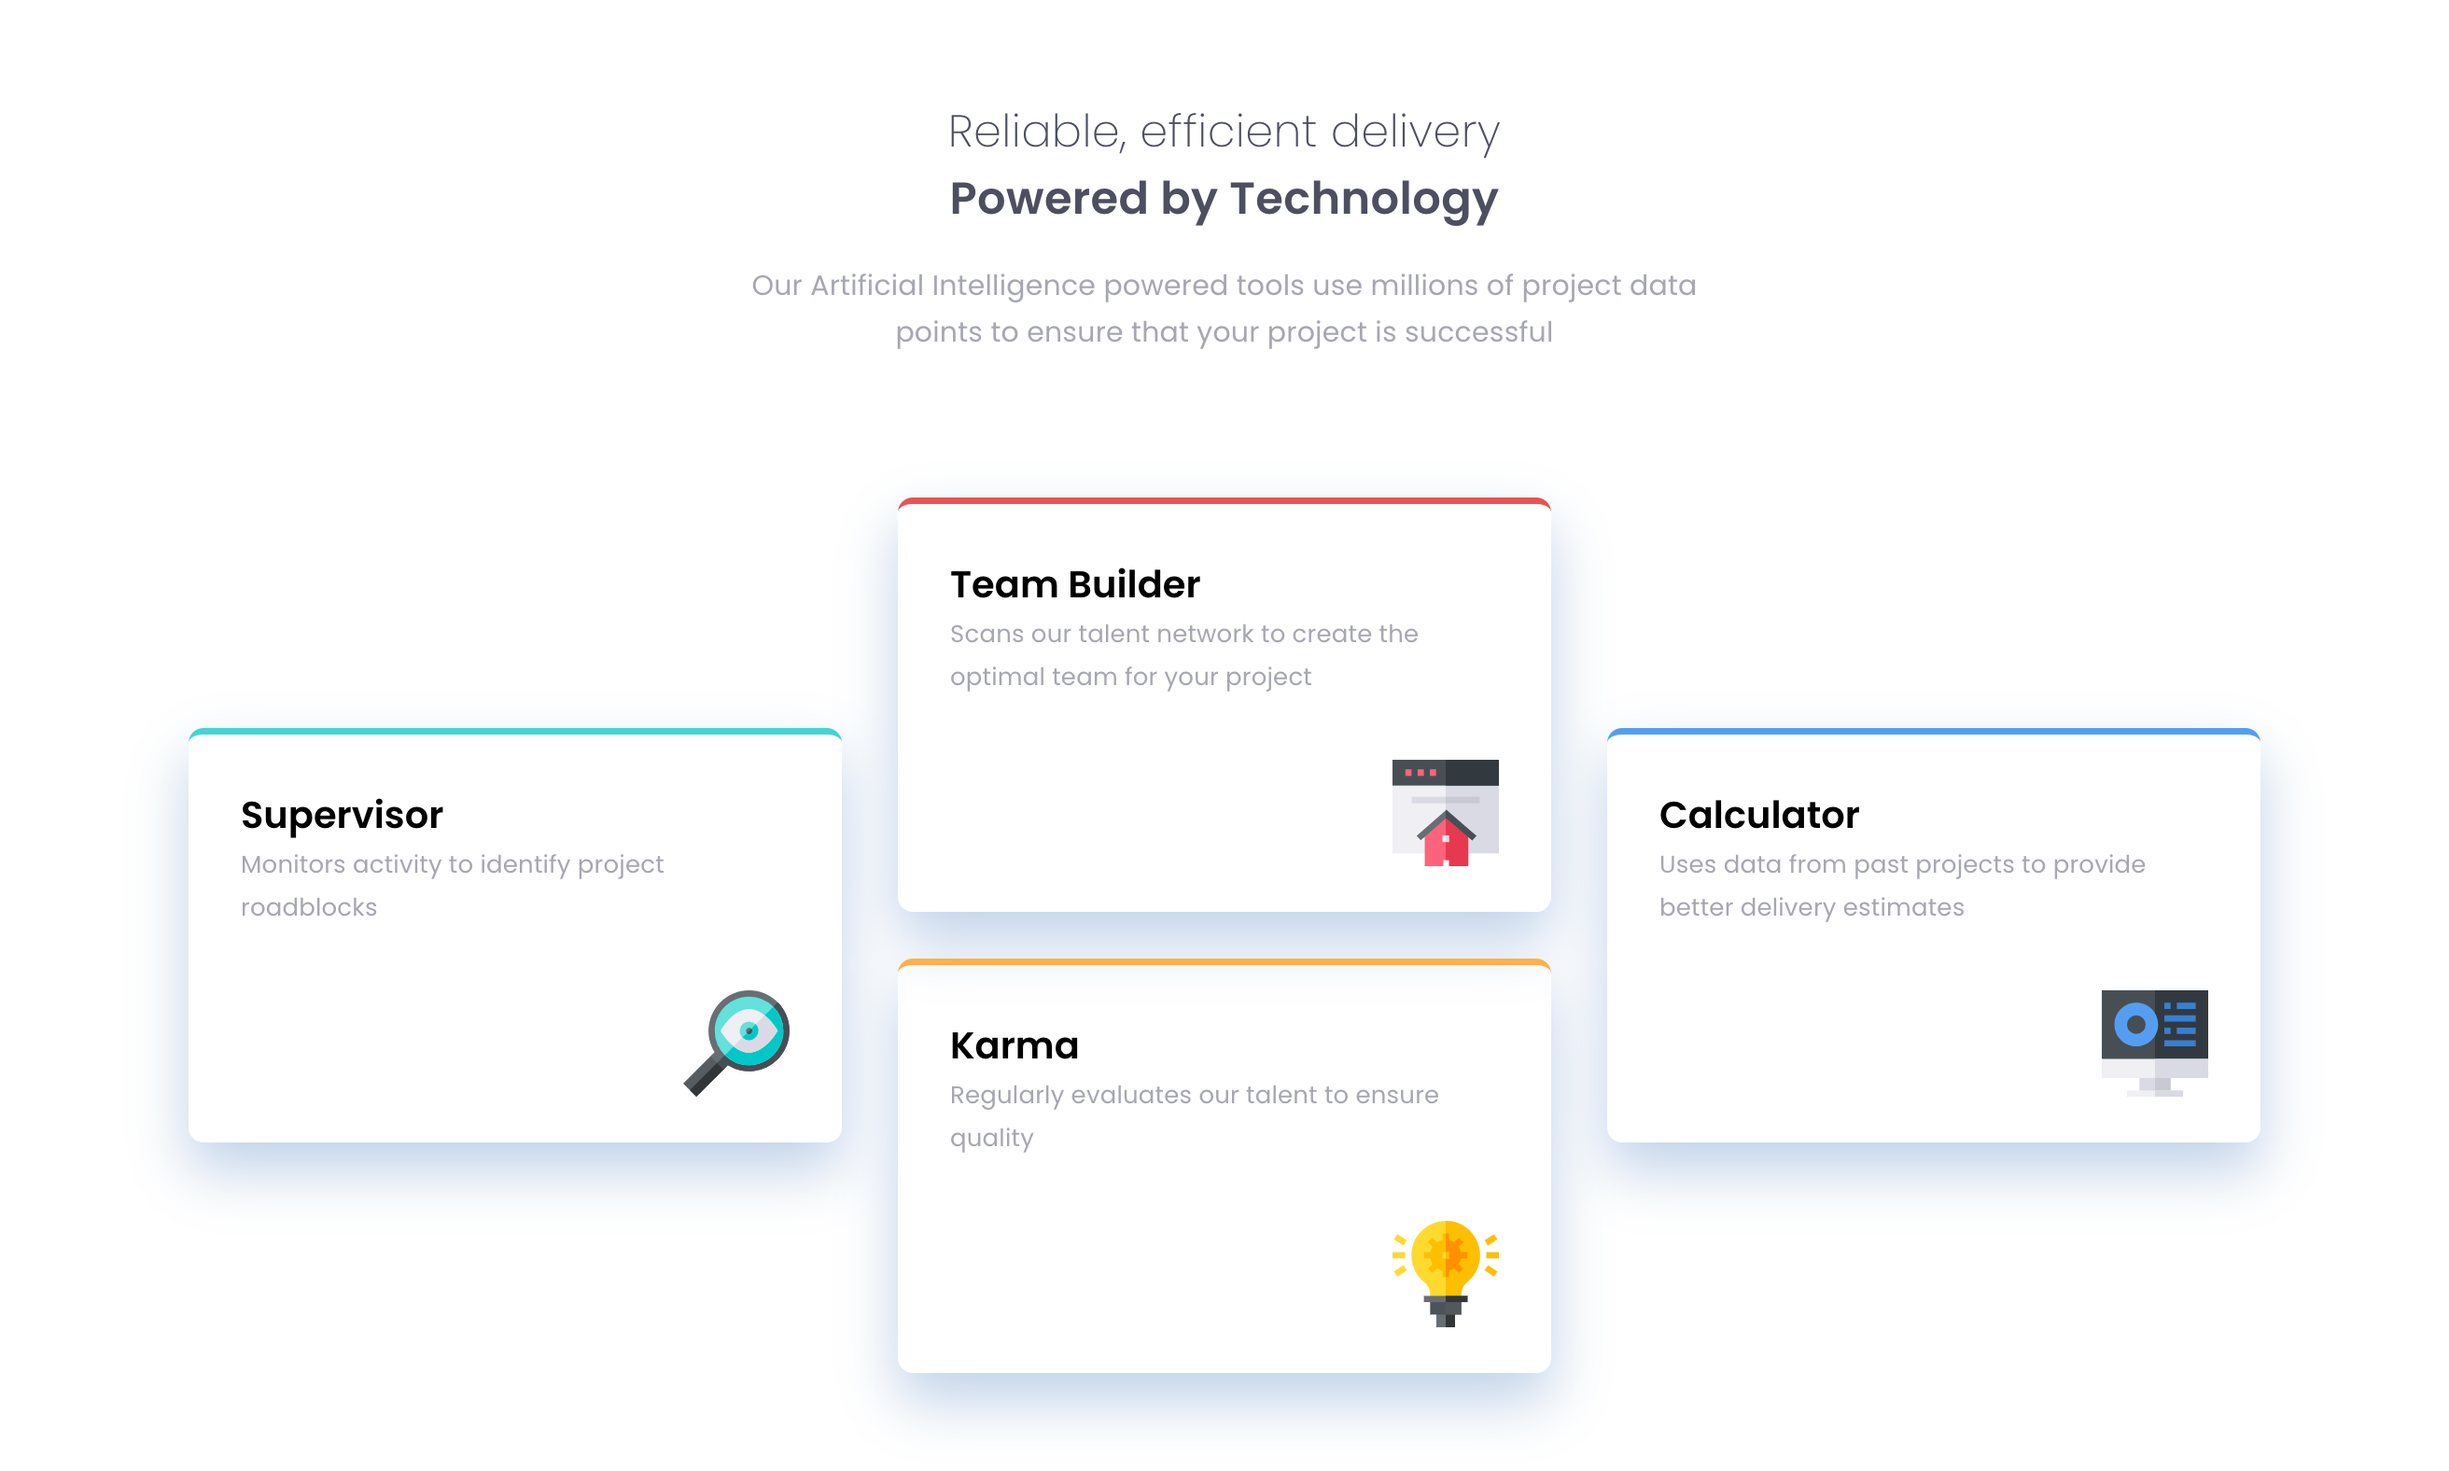
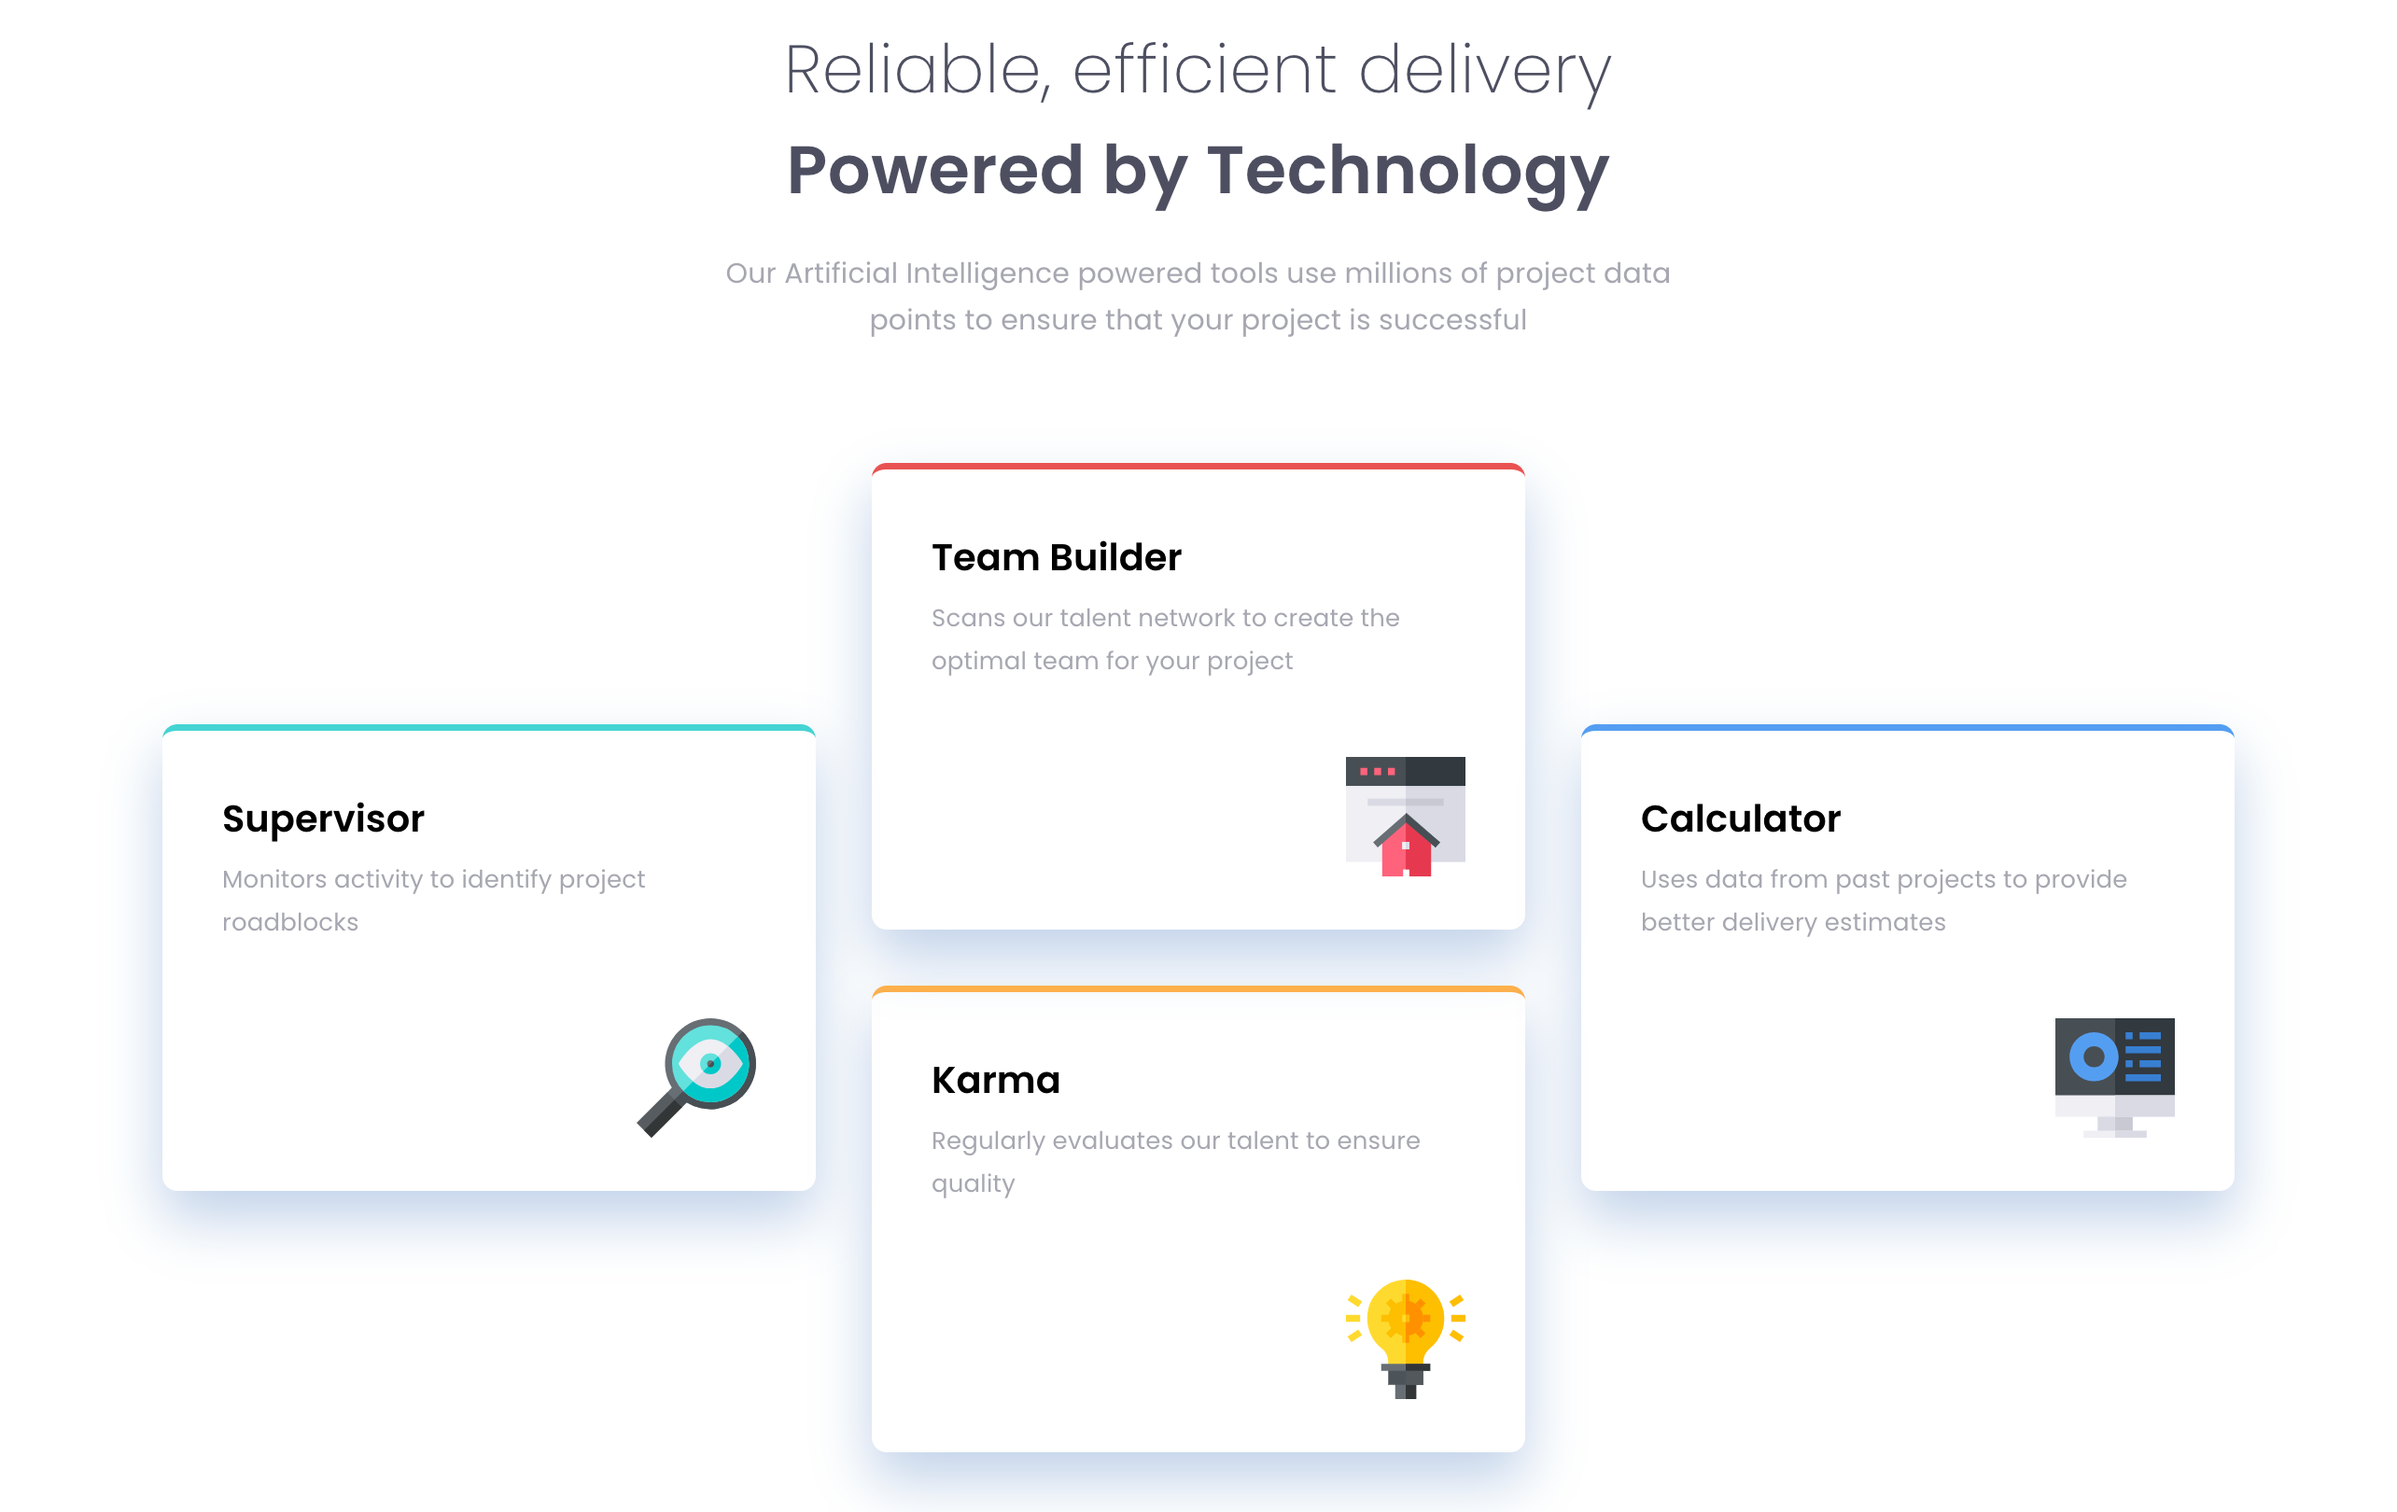
Update gap and screenshot

diff --git a/style.css b/style.css
@@ -64,8 +64,10 @@ h1, h2, h3, h4, h5, h6 {
   font-family: var(--ff-base);
   font-size: 15px;
 
-  display: grid;
-  place-content: center;
+  display: flex;
+  flex-direction: column;
+  justify-content: center;
+  align-items: center;
 }
 
 .content {
@@ -192,13 +194,9 @@ h1, h2, h3, h4, h5, h6 {
     max-width: 540px;
   }
 
-  .section__title-group {
-
-  }
-
   .section__title,
   .section__subtitle {
-    font-size: 2.25rem;
+    font-size: 36px;
     letter-spacing: 0.25px;
   }
 
@@ -206,6 +204,7 @@ h1, h2, h3, h4, h5, h6 {
     grid-template-columns: repeat(3, 1fr);
     grid-template-rows: 1fr 1fr;
     column-gap: 30px;
+    row-gap: 30px;
     /* grid-template-areas: 
     "card1 card2 card4"
     "card1 card3 card4"; */
